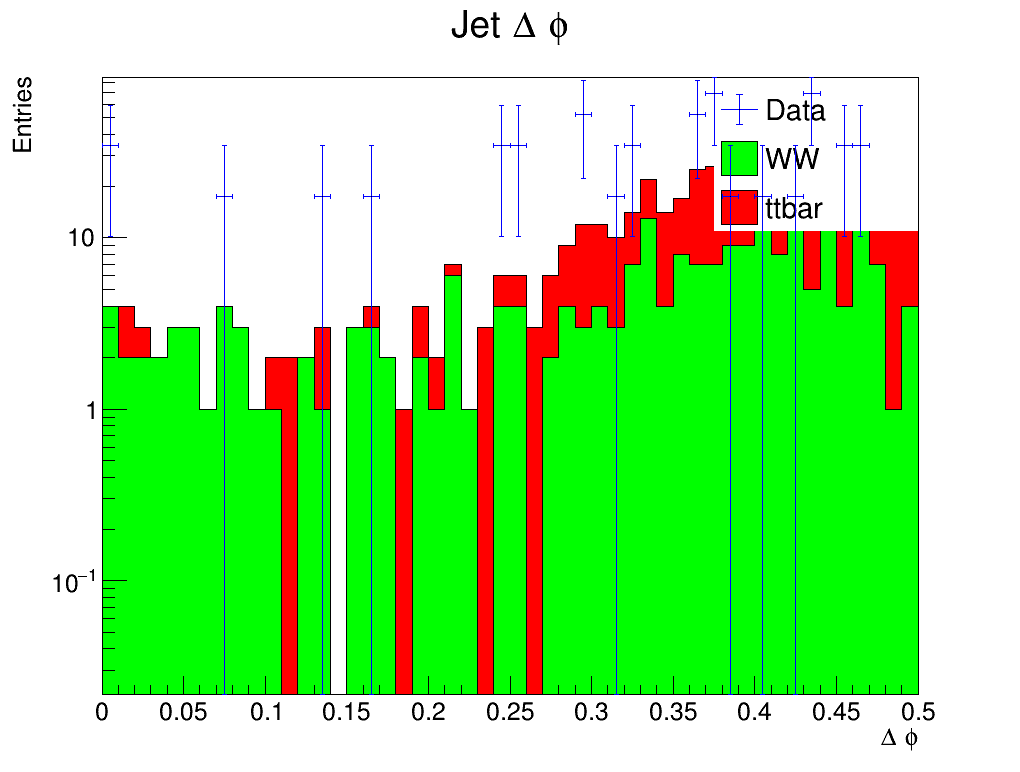
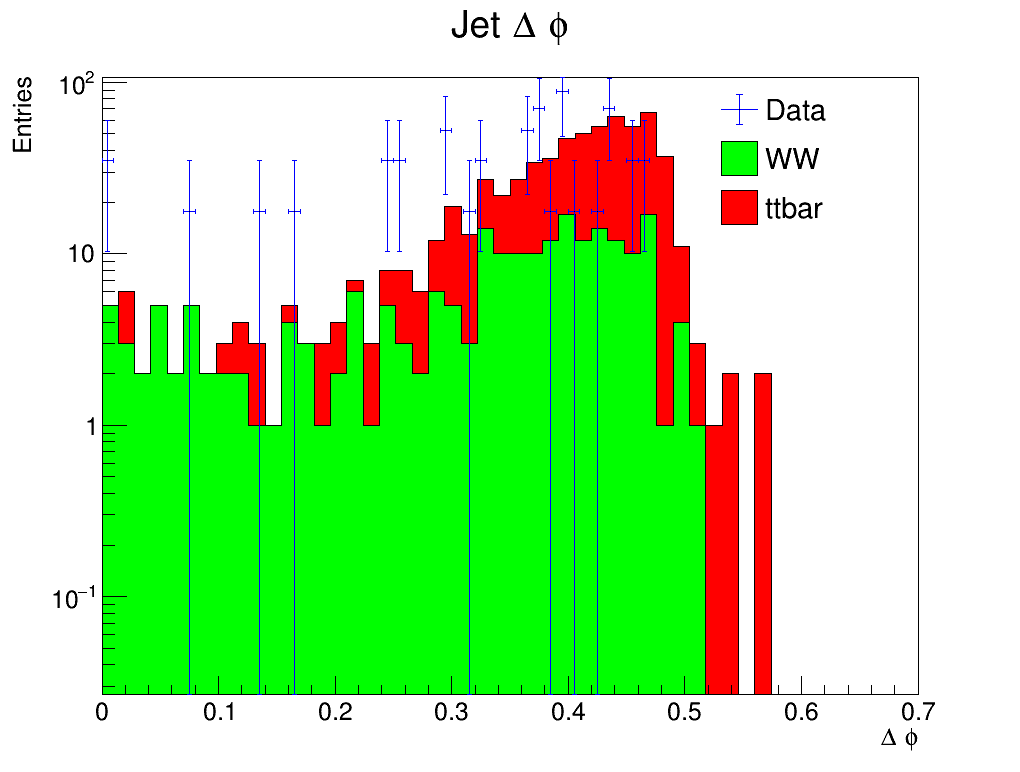
Changes

diff --git a/ExpPhysFinalProyect/SecondReport/Code/SecondReport_Analysis.C b/ExpPhysFinalProyect/SecondReport/Code/SecondReport_Analysis.C
@@ -55,11 +55,11 @@ class Analysis
             TH1F *histMissingETPhi        = new TH1F("histMissingETPhi", "#phi", 50, -5, 5);	
 		
 	    TH1F *histJetPT              = new TH1F("histJetPT"      , "Jet P_{T}", 50, 0, 300);
-            TH1F *histJetEta             = new TH1F("histJetEta"     , "Jet #eta" , 50, -5, 5);
-            TH1F *histJetPhi             = new TH1F("histJetPhi"     , "Jet #phi" , 50, -5, 5);
-	    TH1F *histJetMass            = new TH1F("histJetMass"     , "Jet Mass" , 50, 0, 60);
-	    TH1F *histJetDeltaEta        = new TH1F("histJetDeltaEta", "Jet #Delta #eta", 50, 0, 0.5);
-            TH1F *histJetDeltaPhi        = new TH1F("histJetDeltaPhi", "Jet #Delta #phi", 50, 0, 0.5);			
+            TH1F *histJetEta             = new TH1F("histJetEta"     , "Jet #eta" , 50, -6, 6);
+            TH1F *histJetPhi             = new TH1F("histJetPhi"     , "Jet #phi" , 50, -6, 6);
+	    TH1F *histJetMass            = new TH1F("histJetMass"     , "Jet Mass" , 50, 0, 100);
+	    TH1F *histJetDeltaEta        = new TH1F("histJetDeltaEta", "Jet #Delta #eta", 50, 0, 1.5);
+            TH1F *histJetDeltaPhi        = new TH1F("histJetDeltaPhi", "Jet #Delta #phi", 50, 0, 0.7);			
             
             cout << "Number of Entries in input files: " << numberOfEntries << endl;
 
